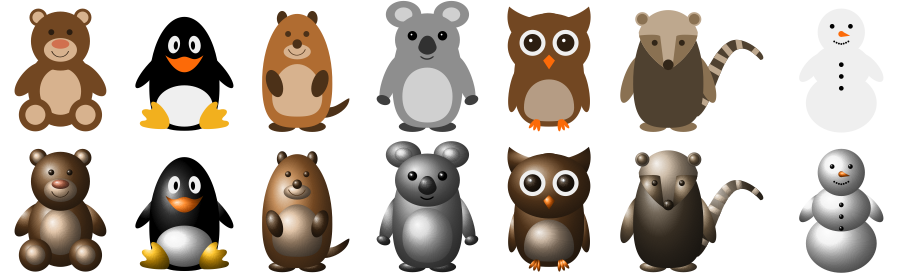
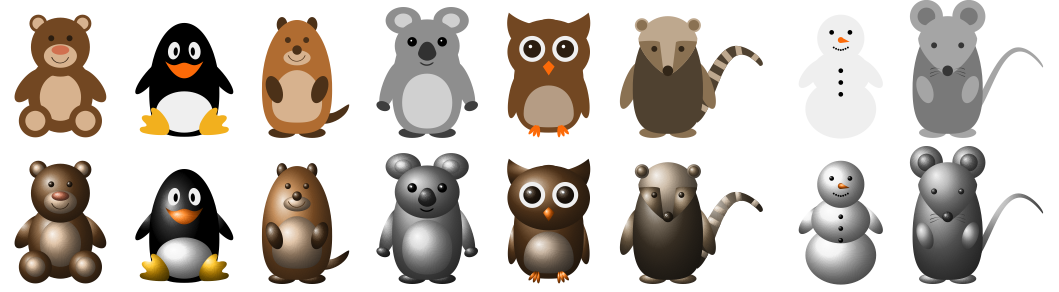
updated example image

diff --git a/Examples/tikzlings.tex b/Examples/tikzlings.tex
@@ -4,7 +4,7 @@
 
 \begin{document}
 
-\begin{tabular}{ccccccc}
+\begin{tabular}{cccccccc}
 \begin{tikzpicture}
 	\bear
 \end{tikzpicture}	
@@ -31,6 +31,10 @@
 &
 \begin{tikzpicture}
 	\snowman
+\end{tikzpicture}	
+&
+\begin{tikzpicture}
+	\mouse
 \end{tikzpicture}	
 \\
 \begin{tikzpicture}
@@ -59,6 +63,10 @@
 &
 \begin{tikzpicture}
 	\snowman[3D]
+\end{tikzpicture}	
+&
+\begin{tikzpicture}
+	\mouse[3D]
 \end{tikzpicture}	
 \end{tabular}
 
